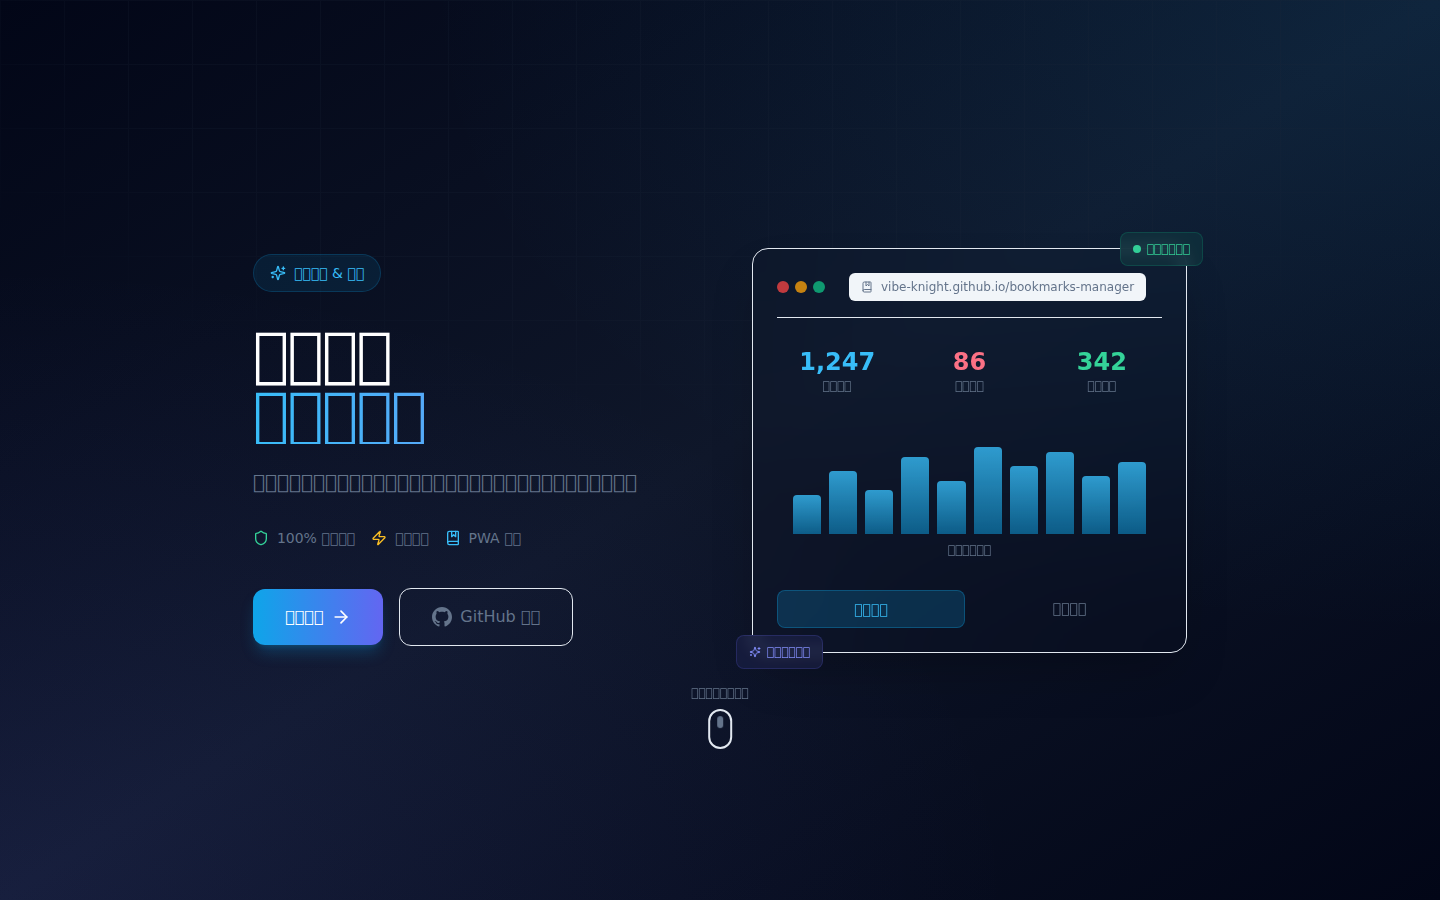
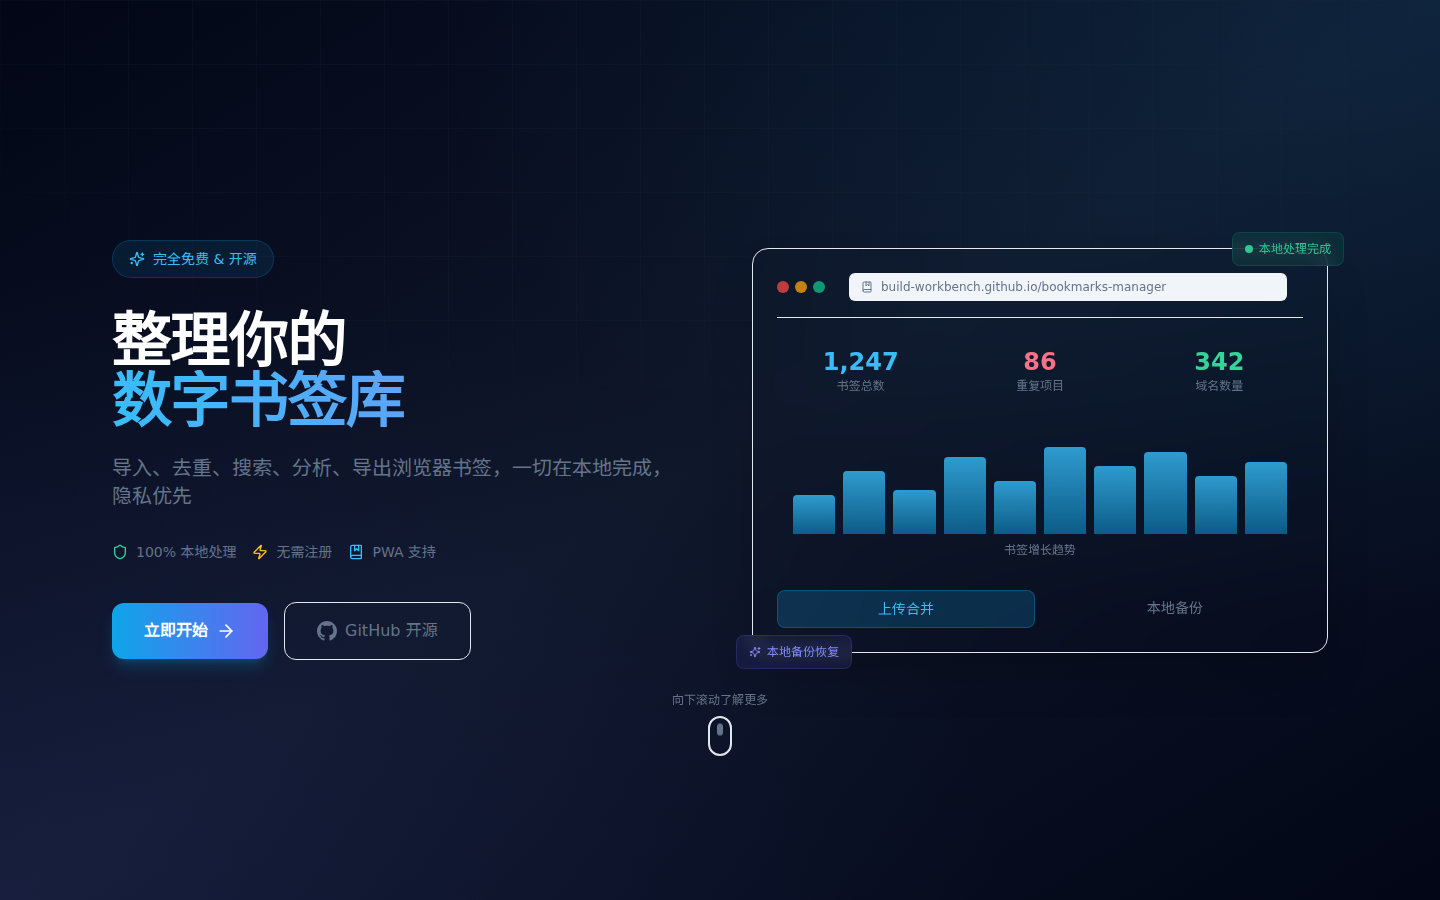
fix: 中文字体渲染(Resource Han Rounded CN)重截落地页 + 截图工具文档
- 落地页最初截图因系统缺中文字体渲染成豆腐块; 安装 Resource Han Rounded CN 后重截
- 四张截图(dashboard/search/duplicates 带真实数据)均已用 luma 视觉确认中文清晰无方框
- 新增 scripts/screenshots/README.md 记录字体安装与截图复现步骤

diff --git a/scripts/screenshots/README.md b/scripts/screenshots/README.md
@@ -1,0 +1,35 @@
+# scripts/screenshots — 功能截图工具
+
+用于生成 README 里的功能截图（落地页 / 仪表盘 / 搜索 / 重复检测）。
+
+## 前置条件
+
+1. 启动 dev server：`npm run dev`（默认端口 5173）
+2. Playwright chromium 可用（截图脚本硬编码了本机路径，请按需修改 `screenshot-workspace.mjs` 里的 `executablePath`）
+3. **中文字体**：截图依赖系统已安装 CJK 字体。本机用 **Resource Han Rounded CN**（文件名 `ResourceHanRoundedCN-*.ttf`，与 Windows `C:\Data\Filen\数据备份\字体常用\ResourceHanRoundedCN` 同源）。
+   若未安装，中文字会渲染成方框（tofu）。安装后执行：
+   ```bash
+   mkdir -p ~/.local/share/fonts
+   cp "/mnt/c/Data/Filen/数据备份/字体常用/ResourceHanRoundedCN/"*.ttf ~/.local/share/fonts/
+   fc-cache -fv 2>/dev/null | tail -1
+   ```
+
+## 使用
+
+```bash
+# 1. 生成示例书签 HTML（每次可重跑）
+node scripts/screenshots/make-samples.mjs
+
+# 2. 注入示例数据并截图三张工作区页到 /tmp/bm-shots/
+node scripts/screenshots/screenshot-workspace.mjs
+
+# 3.（可选）验证页面数字与 store 一致
+node scripts/screenshots/verify-numbers.mjs
+```
+
+截图输出到 `/tmp/bm-shots/`。将 `dashboard.png`、`search.png`、`duplicates.png`（及手动截的落地页 `landing.png`）复制到 `public/screenshots/` 即完成更新。
+
+## 说明
+
+- 路由修复（App.tsx 用相对子路径）是截图的前提，否则工作区页面 main 区为空。
+- 脚本通过 `import('/src/store/useBookmarksStore.ts')`（带 `.ts` 后缀）取与 App 同一个 store 实例，避免 vite 将无后缀导入解析成另一实例。
